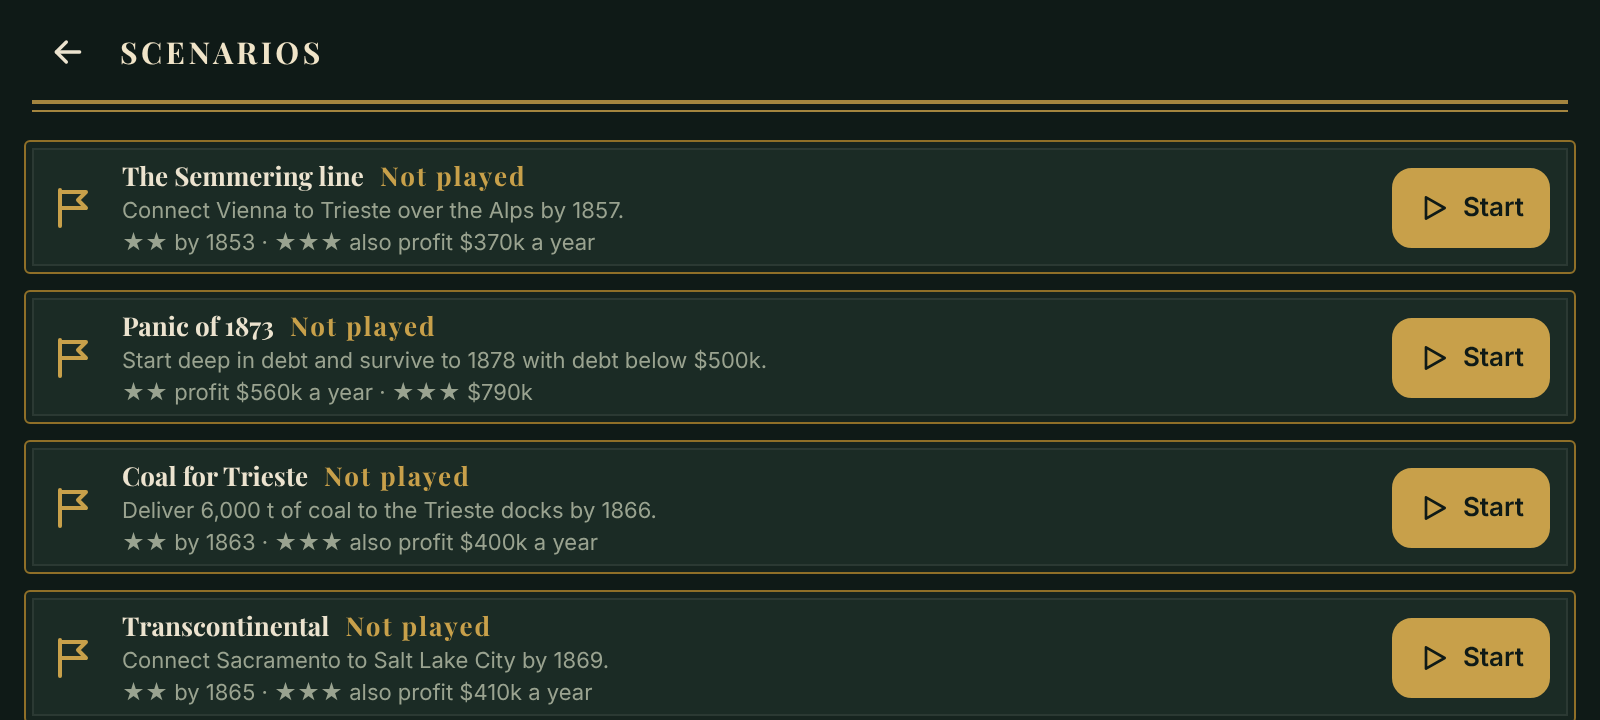
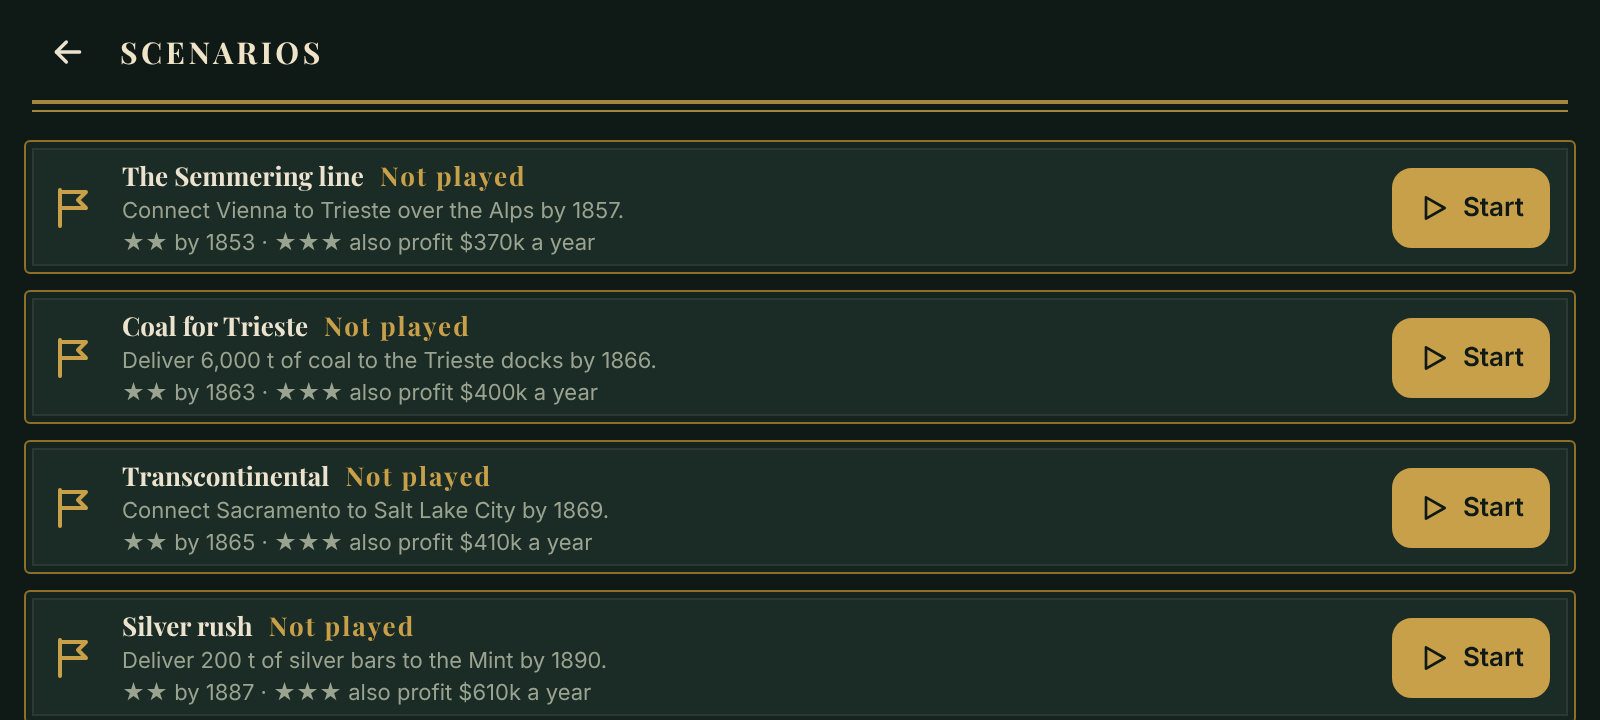
Scenarios: Panic of 1873 (the hardest) listed last (owner)
Claude-Session: https://claude.ai/code/session_01FfGBjqUr8CAhAgjCifAX5A

Changed region(s): [[0.0625, 0.4278, 0.4688, 0.5806], [0.0625, 0.8556, 0.375, 0.9778], [0.0625, 0.6417, 0.4062, 0.7639]]

diff --git a/src/data/scenarios.ts b/src/data/scenarios.ts
@@ -55,20 +55,6 @@ export const SCENARIOS: readonly ScenarioDef[] = [
     stars: [1853, strongPlayerAmount("profit", 5, 1857, 1850)],
   },
   {
-    id: "panic1873",
-    region: "us-east",
-    seed: 7,
-    startYear: 1871,
-    difficulty: "normal",
-    startCash: 400000,
-    startLoans: 2_500_000,
-    goal: { type: "survive", untilYear: 1878, maxDebt: 500_000 },
-    stars: [
-      strongPlayerAmount("profit", 5, 1878, 1871),
-      strongPlayerAmount("profit", 7, 1878, 1871),
-    ],
-  },
-  {
     id: "coalTrieste",
     region: "central-eu",
     seed: 7,
@@ -103,6 +89,21 @@ export const SCENARIOS: readonly ScenarioDef[] = [
     startCash: 4_000_000,
     goal: { type: "deliver", cargo: "silverBars", amount: 200, byYear: 1890 },
     stars: [1887, strongPlayerAmount("profit", 5, 1890, 1880)],
+  },
+  // Owner (2026-10-31): the hardest scenario, listed last.
+  {
+    id: "panic1873",
+    region: "us-east",
+    seed: 7,
+    startYear: 1871,
+    difficulty: "normal",
+    startCash: 400000,
+    startLoans: 2_500_000,
+    goal: { type: "survive", untilYear: 1878, maxDebt: 500_000 },
+    stars: [
+      strongPlayerAmount("profit", 5, 1878, 1871),
+      strongPlayerAmount("profit", 7, 1878, 1871),
+    ],
   },
 ];
 
